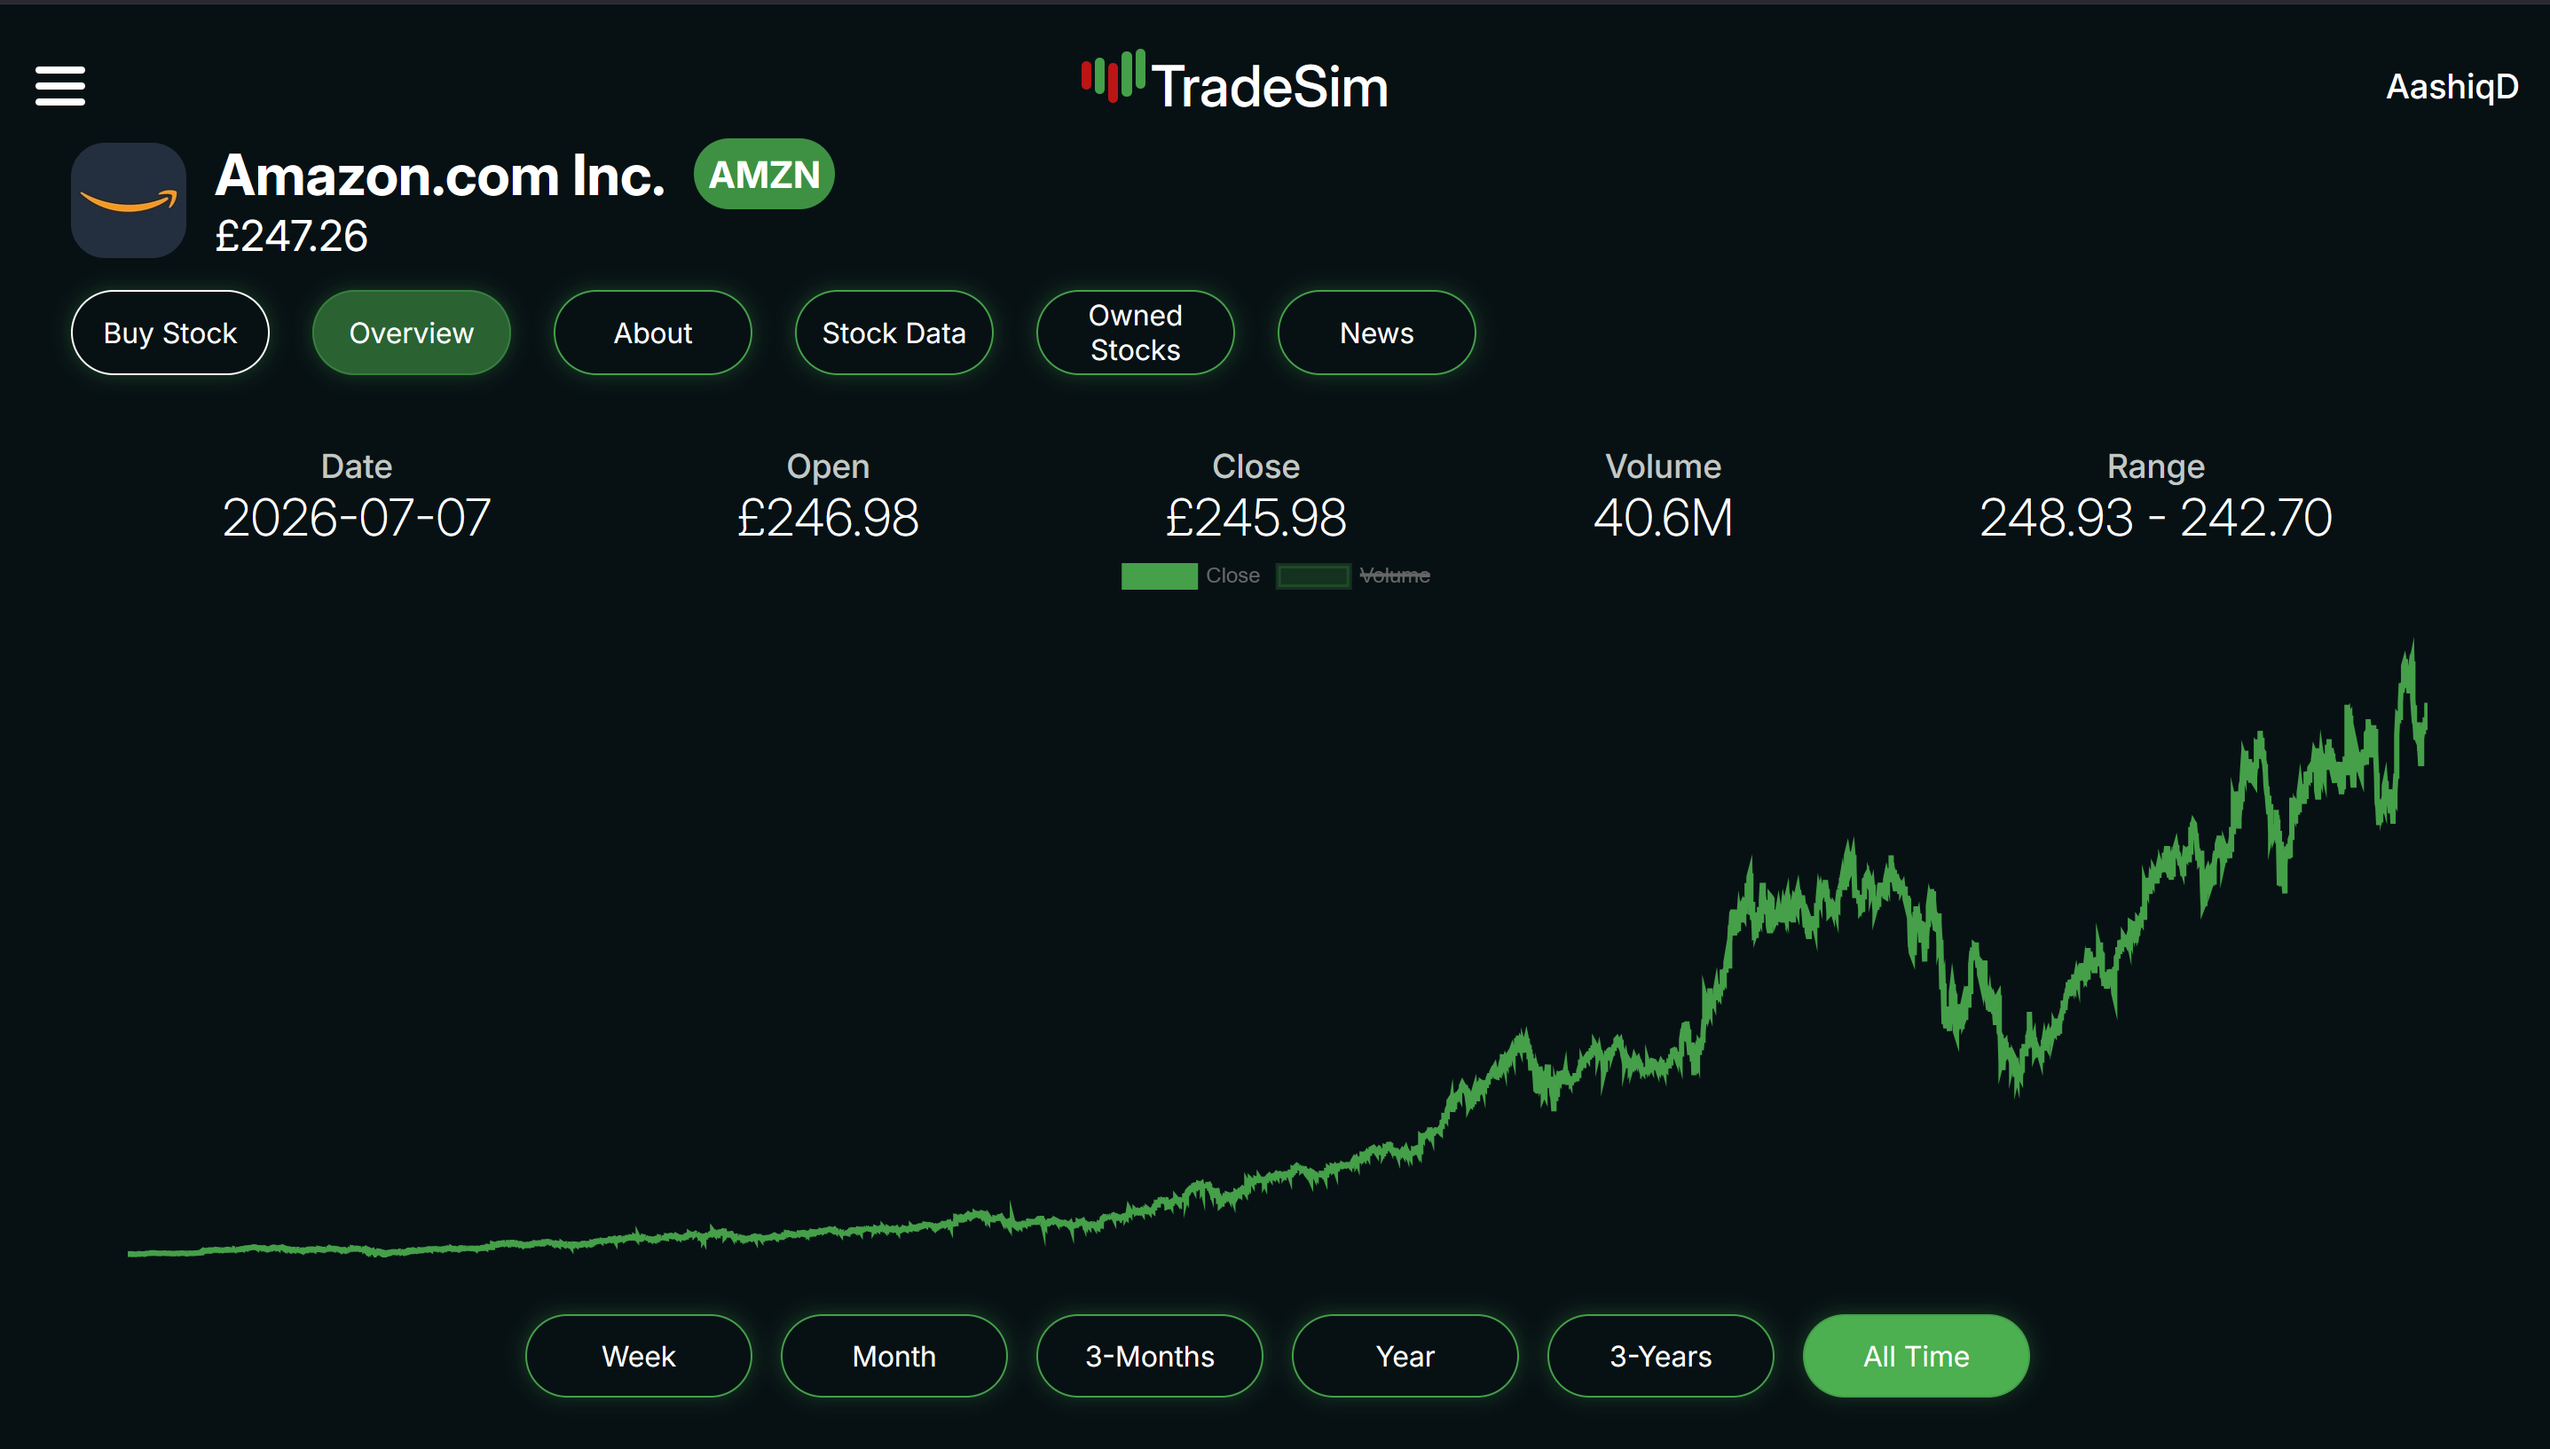
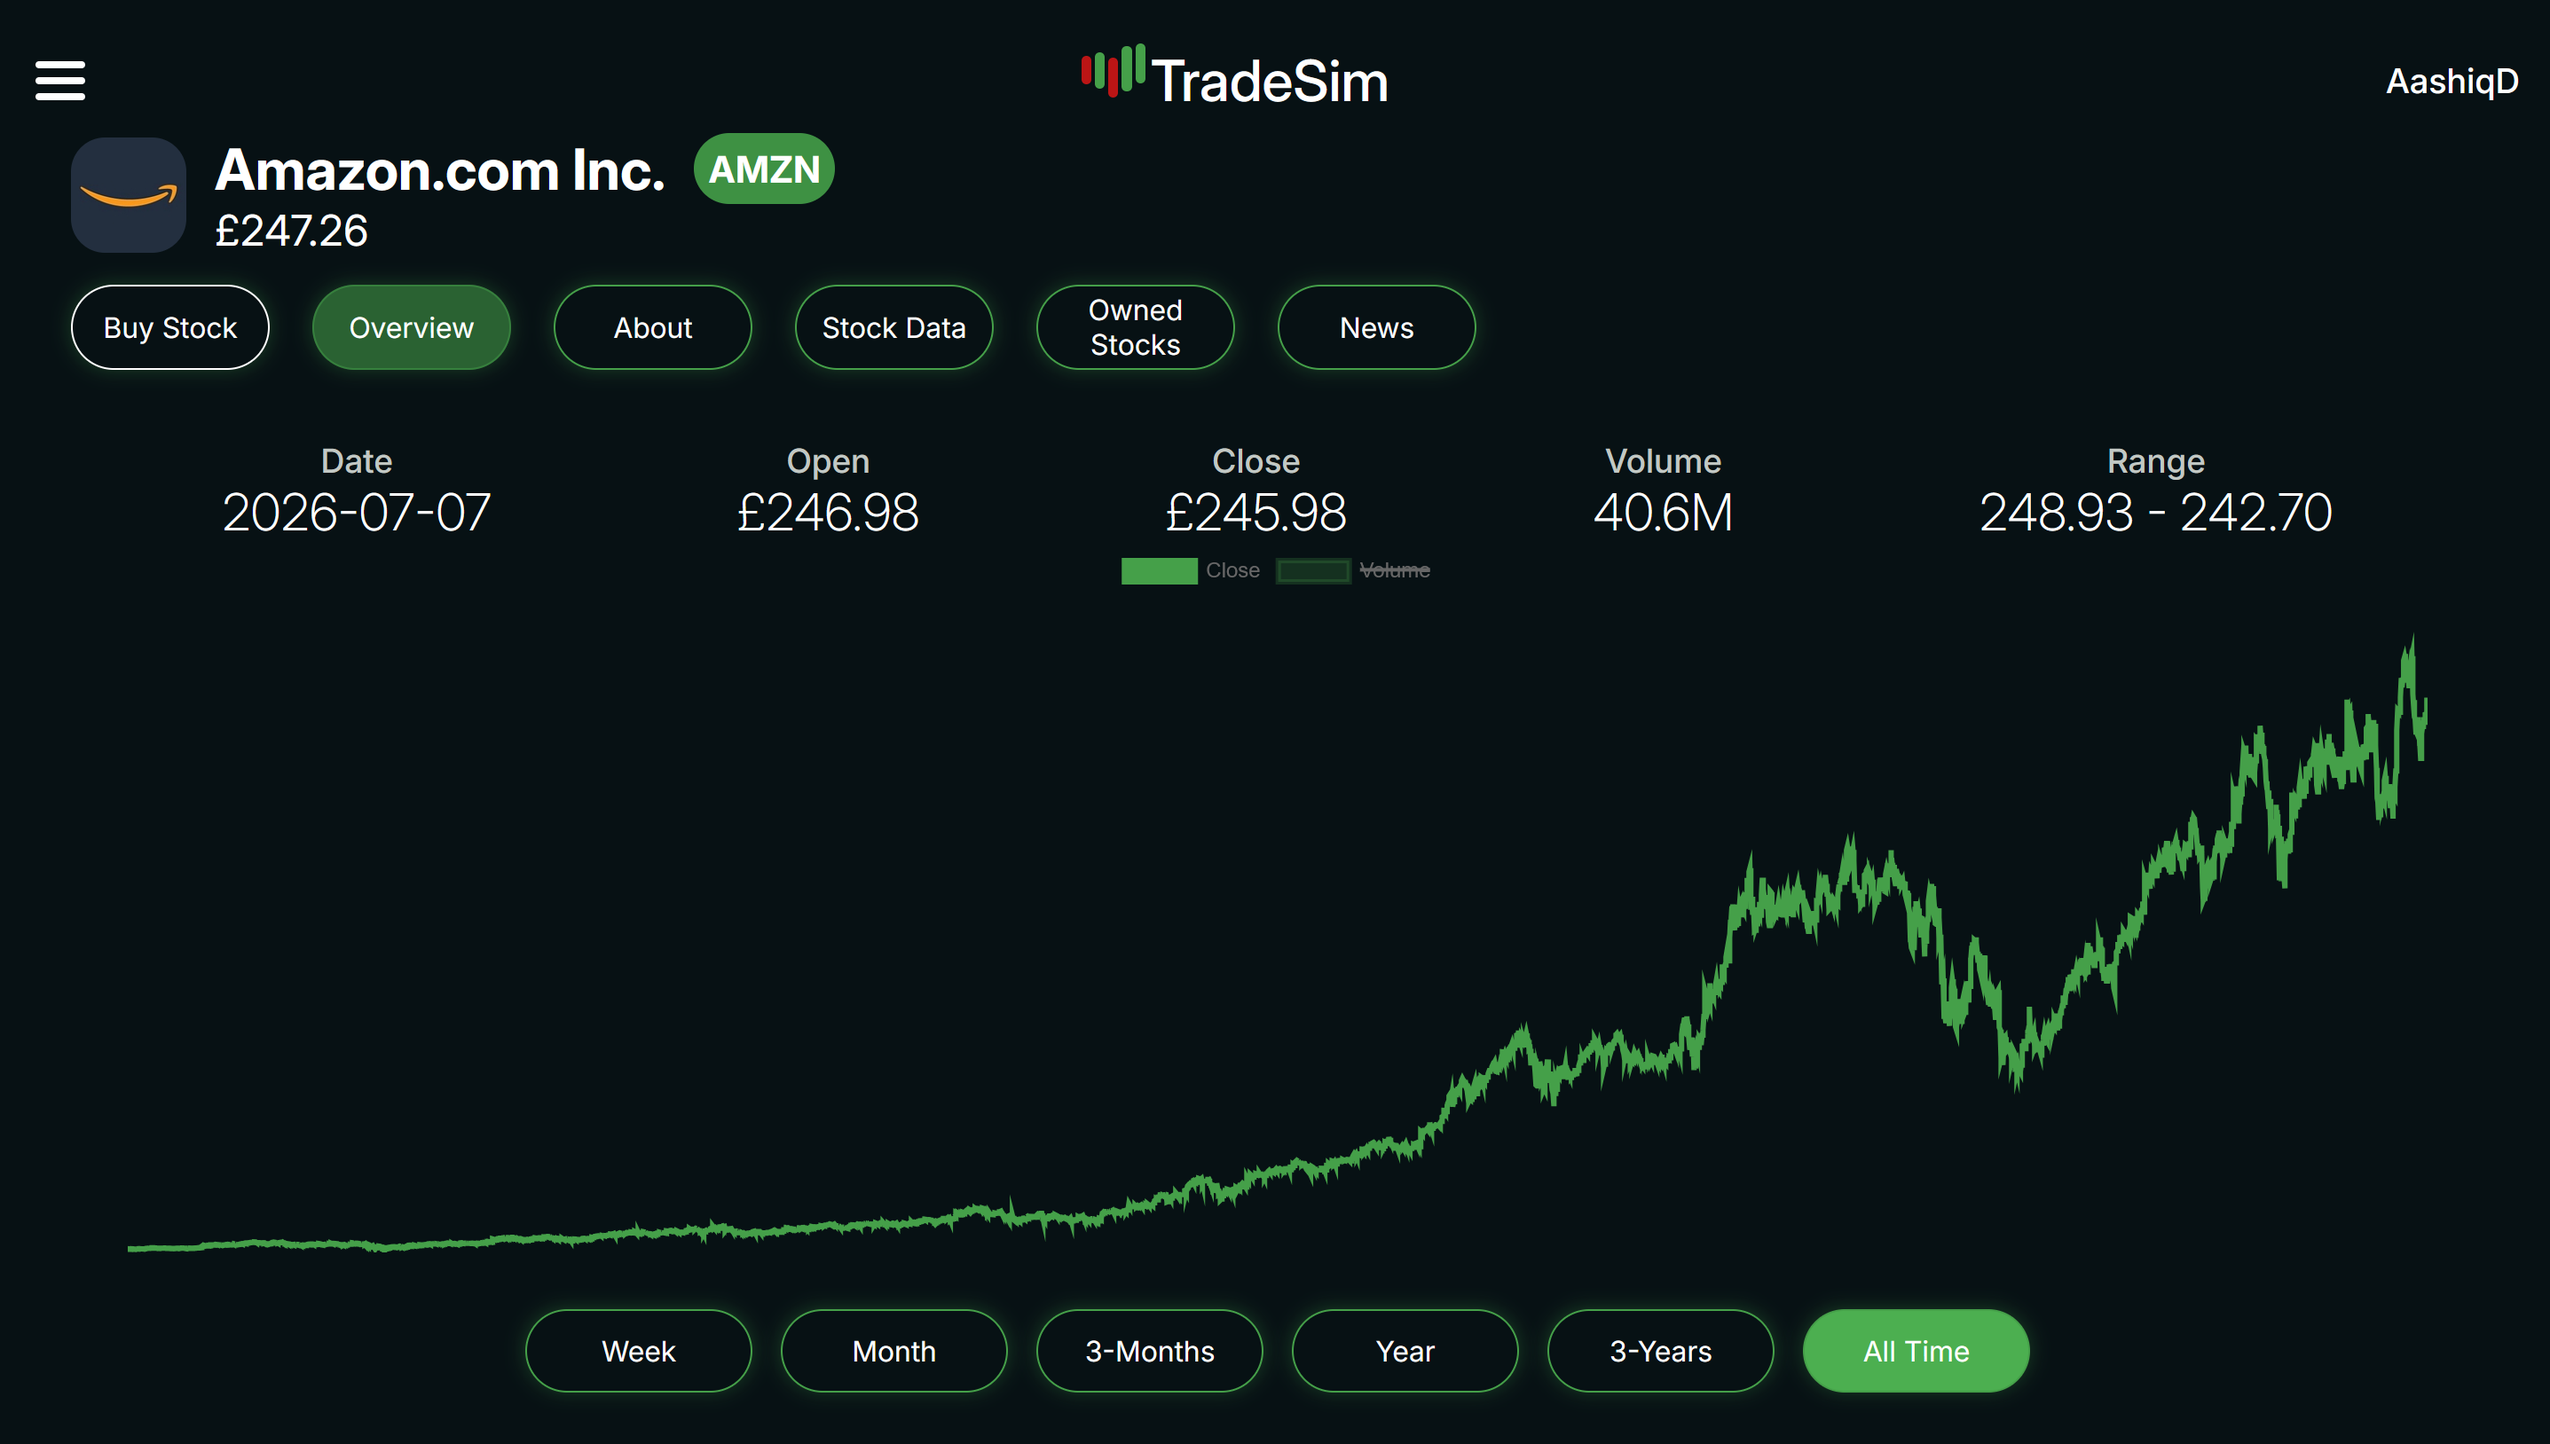
feat DEV-002 Created basic shape for project card

diff --git a/src/components/projects/ProjectCard.tsx b/src/components/projects/ProjectCard.tsx
@@ -1,9 +1,80 @@
+import { useRef } from "react";
+import { useTheme } from "../../context/ThemeContext";
+import { WHITE } from "../../styles/colours";
 import { ProjectData } from "../../types";
+import Seperator from "../ui/Seperator";
+import "./ProjectCard.css";
+import { applyTilt } from "../../utils/applyTilt";
+import AppButton from "../ui/AppButton";
+import AppLink from "../ui/AppLink";
 
-type props = {
+type Props = {
   data: ProjectData;
 };
 
-export default function ProjectCard({ data }: props) {
-  return <div></div>;
+export default function ProjectCard({ data }: Props) {
+  const { theme } = useTheme();
+  const projectCardRef = useRef<HTMLDivElement | null>(null);
+
+  // tilt functions -----------------------------------
+
+  function tilt(clientX: number, clientY: number) {
+    const projCard = projectCardRef.current;
+    if (!projCard) return null;
+
+    applyTilt(projCard, clientX, clientY, 10, 50);
+  }
+
+  function handleMouseMove(e: React.MouseEvent) {
+    tilt(e.clientX, e.clientY);
+  }
+
+  function handleTouchMove(e: React.TouchEvent) {
+    if (!e.touches.length) return;
+
+    const touch = e.touches[0];
+    tilt(touch.clientX, touch.clientY);
+  }
+
+  function handleMoveEnd() {
+    const projCard = projectCardRef.current;
+    if (!projCard) return null;
+    projCard.style.transform = "scale(1) rotateX(0) rotateY(0)";
+  }
+
+  //  ------------------------------------------------
+
+  const customLinkStyle = {
+    transform: `translateZ(20px)`,
+    flex: 1,
+  };
+
+  //  ------------------------------------------------
+
+  return (
+    <div
+      onMouseMove={handleMouseMove}
+      onTouchMove={handleTouchMove}
+      onMouseLeave={handleMoveEnd}
+      onTouchEnd={handleMoveEnd}
+    >
+      <div
+        className="project-card-container"
+        style={theme.card}
+        ref={projectCardRef}
+      >
+        <h3 style={theme.text}>{data.name}</h3>
+        <div className="project-card-body">
+          <img src={data.images.thumbnail} alt={`${data.name} thumbnail`} />
+          <p style={theme.text}>{data.descriptions}</p>
+        </div>
+        <div className="project-card-footer">
+          {data.links.liveDemo && (
+            <AppLink style={customLinkStyle}>Live Demo</AppLink>
+          )}
+          <AppLink style={customLinkStyle}>Details</AppLink>
+        </div>
+      </div>
+    </div>
+  );
 }

diff --git a/src/components/ui/AppButton.tsx b/src/components/ui/AppButton.tsx
@@ -1,39 +1,44 @@
-import { CSSProperties, ReactNode } from "react";
-import "./AppButton.css"
+import { Children, CSSProperties, ReactNode } from "react";
+import "./AppButton.css";
 import { useTheme } from "../../context/ThemeContext";
 
-type props = {
-    text: string,
-    leftIcon?: ReactNode,
-    rightIcon?: ReactNode,
-    onPress?: () => void,
-    className?: string,
-    textClassName?: string,
-    style?: CSSProperties,
-    textStyle?: CSSProperties
-}
+type Props = {
+  children: ReactNode;
+  leftIcon?: ReactNode;
+  rightIcon?: ReactNode;
+  onPress?: () => void;
+  className?: string;
+  textClassName?: string;
+  style?: CSSProperties;
+  textStyle?: CSSProperties;
+};
 
 export default function AppButton({
-    text,
-    leftIcon,
-    rightIcon,
-    onPress,
-    className,
-    textClassName,
-    style,
-    textStyle,
-}: props){
-    const { theme } = useTheme()
+  children,
+  leftIcon,
+  rightIcon,
+  onPress,
+  className,
+  textClassName,
+  style,
+  textStyle,
+}: Props) {
+  const { theme } = useTheme();
 
-    return (
-        <button 
-            className={className || "defaultButton"}
-            onClick={onPress}
-            style={{...theme.primaryButton, ...style}}
-            >
-                {leftIcon}
-                <p className={textClassName || "defaultButtonText"} style={{...theme.primaryText, ...textStyle}}>{text}</p>
-                {rightIcon}
-        </button>
-    )
+  return (
+    <button
+      className={className || "defaultButton"}
+      onClick={onPress}
+      style={{ ...theme.primaryButton, ...style }}
+    >
+      {leftIcon}
+      <p
+        className={textClassName || "defaultButtonText"}
+        style={{ ...theme.primaryText, ...textStyle }}
+      >
+        {children}
+      </p>
+      {rightIcon}
+    </button>
+  );
 }

diff --git a/src/pages/Home.tsx b/src/pages/Home.tsx
@@ -42,7 +42,6 @@ export default function Home({ closeMenu }: props) {
 
         <article className="HomeButtons">
           <AppButton
-            text="GitHub"
             onPress={() =>
               (window.location.href = "https://github.com/AashiqDina")
             }
@@ -60,20 +59,22 @@ export default function Home({ closeMenu }: props) {
                 className="GitHubLinkedInIcon"
               />
             }
-          />
+          >
+            GitHub
+          </AppButton>
 
           <div className="ViewMyWork">
             <AppButton
-              text={"View My Work"}
               onPress={() => {
                 closeMenu();
                 setViewWorkMenu(true);
               }}
-            />
+            >
+              View My Work
+            </AppButton>
           </div>
 
           <AppButton
-            text="LinkedIn"
             onPress={() =>
               (window.location.href =
                 "https://www.linkedin.com/in/aashiq-dina-339842227/")
@@ -92,7 +93,9 @@ export default function Home({ closeMenu }: props) {
                 className="GitHubLinkedInIcon"
               />
             }
-          />
+          >
+            LinkedIn
+          </AppButton>
         </article>
       </section>
     </main>

diff --git a/src/components/projects/ProjectCard.css b/src/components/projects/ProjectCard.css
@@ -1,0 +1,50 @@
+.project-card-container{
+    display: flex;
+    align-items: center;
+    justify-content: center;
+    flex-direction: column;
+    gap: 0.5rem;
+    padding: 1rem 1.5rem 1.5rem 1.5rem;
+    width: 360px;
+    border-radius: 3rem;
+    transform-style: preserve-3d;
+}
+
+
+.project-card-container h3{
+    transform: translateZ(30px);
+    font-size: 1.8rem;
+    letter-spacing: 1px;
+}
+
+.project-card-container img{
+    transform: translateZ(20px);
+    width: 100%;
+    border-radius: 0.8rem;
+}
+
+.project-card-container p{
+    transform: translateZ(15px);
+    font-size: 0.9rem;
+    text-align: center;
+    font-weight: 100;
+    letter-spacing: 1px;
+}
+
+.project-card-body{
+    display: flex;
+    flex-direction: column;
+    gap: 1rem;
+    transform-style: preserve-3d;
+}
+
+.project-card-wrapper {
+    perspective: 43rem;
+}
+
+.project-card-footer{
+    width: 100%;
+    display: flex;
+    gap: 1rem;
+    transform-style: preserve-3d;
+}

diff --git a/src/pages/Projects.tsx b/src/pages/Projects.tsx
@@ -1,19 +1,24 @@
 import ProjectCard from "../components/projects/ProjectCard";
 import PageTitle from "../components/ui/PageTitle";
 import projects from "../data/Projects.json";
+import "./Projects.css";
 
 export default function Projects() {
   return (
-    <section>
-      <PageTitle
-        title="Projects"
-        as={"h2"}
-        className="header2"
-        addShadow={true}
-      />
-      {projects.map((project) => {
-        return <ProjectCard data={project} />;
-      })}
+    <section className="ProjectsPage">
+      <div>
+        <PageTitle
+          title="Projects"
+          as={"h2"}
+          className="header2"
+          addShadow={true}
+        />
+      </div>
+      <article>
+        {projects.map((project) => {
+          return <ProjectCard key={project.id} data={project} />;
+        })}
+      </article>
     </section>
   );
 }

diff --git a/src/utils/applyTilt.ts b/src/utils/applyTilt.ts
@@ -1,0 +1,20 @@
+export function applyTilt(element: HTMLElement, clientX: number, clientY: number, rotationMultiplier: number, perspective: number){
+    const articleSpecs = element.getBoundingClientRect();
+
+    const xDistanceInArticle = clientX - articleSpecs.left;
+    const yDistanceInArticle = clientY - articleSpecs.top;
+    const projCardCenterX = articleSpecs.width / 2;
+    const projCardCenterY = articleSpecs.height / 2;
+
+    const RotateX =
+        ((yDistanceInArticle - projCardCenterY) / projCardCenterY) * 1 * rotationMultiplier;
+
+    const RotateY =
+        ((xDistanceInArticle - projCardCenterX) / projCardCenterX) * 1 * rotationMultiplier;
+
+    element.style.transform = `
+        perspective(${perspective}rem)
+        rotateX(${-RotateX}deg)
+        rotateY(${RotateY}deg)
+    `;
+}

diff --git a/src/styles/theme.ts b/src/styles/theme.ts
@@ -58,7 +58,11 @@ export const themes: Record<string, any> = {
         },
 
         card: {
-            // border: `1px solid ${defaultMainColour}`,
+            backgroundColor: addAlpha(BLACK, 50),
+            // background: `linear-gradient(120deg, ${currentTheme.BackgroundFirstColour}, ${currentTheme.BackgroundSecondColour})`,
+            // boxShadow: `0px 5px 20px 0px ${addAlpha(BLACK, 60)}`,
+            // backdropFilter: `blur(3px)`
+
         },
 
         HeaderHoverColor1: {colour: currentTheme.HeaderHoverColor1},

diff --git a/src/components/ui/Seperator.tsx b/src/components/ui/Seperator.tsx
@@ -4,13 +4,17 @@ import "./Seperator.css";
 type props = {
   colour: string;
   alpha: number;
+  translateZ?: number;
 };
 
-export default function Seperator({ colour, alpha }: props) {
+export default function Seperator({ colour, alpha, translateZ }: props) {
   return (
     <div
       className="Seperator"
-      style={{ backgroundColor: addAlpha(colour, alpha) }}
+      style={{
+        backgroundColor: addAlpha(colour, alpha),
+        transform: `translateZ(${translateZ}px)`,
+      }}
     ></div>
   );
 }

diff --git a/src/components/ui/AppLink.tsx b/src/components/ui/AppLink.tsx
@@ -1,0 +1,18 @@
+import { CSSProperties } from "react";
+import "./AppLink.css";
+import { useTheme } from "../../context/ThemeContext";
+
+type Props = {
+  children: string;
+  style?: CSSProperties;
+};
+
+export default function AppLink({ children, style }: Props) {
+  const { theme } = useTheme();
+
+  return (
+    <button className="AppLink" style={{ ...theme.text, ...style }}>
+      {children}
+    </button>
+  );
+}

diff --git a/src/components/ui/PageTitle.tsx b/src/components/ui/PageTitle.tsx
@@ -36,7 +36,7 @@ export default function PageTitle({
             style={{
               transitionDelay: `${index * delaySpeed * 0.1}s`,
               ...(addShadow
-                ? { textShadow: `0rem 0rem 0.25rem ${theme.text.color}` }
+                ? { textShadow: `0rem 0rem 0.1rem ${theme.text.color}` }
                 : undefined),
             }}
           >

diff --git a/src/styles/defaultThemeColourScheme.ts b/src/styles/defaultThemeColourScheme.ts
@@ -7,6 +7,7 @@ export const defaultTheme = {
     BackgroundFirstColour: DEFAULT_TOP,
     BackgroundSecondColour: DEFAULT_BOTTOM,
     StarsColour: WHITE,
+    CardBackground: BLACK,
     
     HeaderHoverColor1: HOVER_PUPRLE_VARIANT_1,
     HeaderHoverColor2: HOVER_PUPRLE_VARIANT_2,

diff --git a/src/pages/Projects.css b/src/pages/Projects.css
@@ -1,0 +1,13 @@
+.ProjectsPage{
+    display: flex;
+    align-items: center;
+    justify-content: center;
+    flex-direction: column;
+    gap: 3rem;
+}
+
+.ProjectsPage article{
+    display: flex;
+    align-items: center;
+    justify-content: center;
+}
